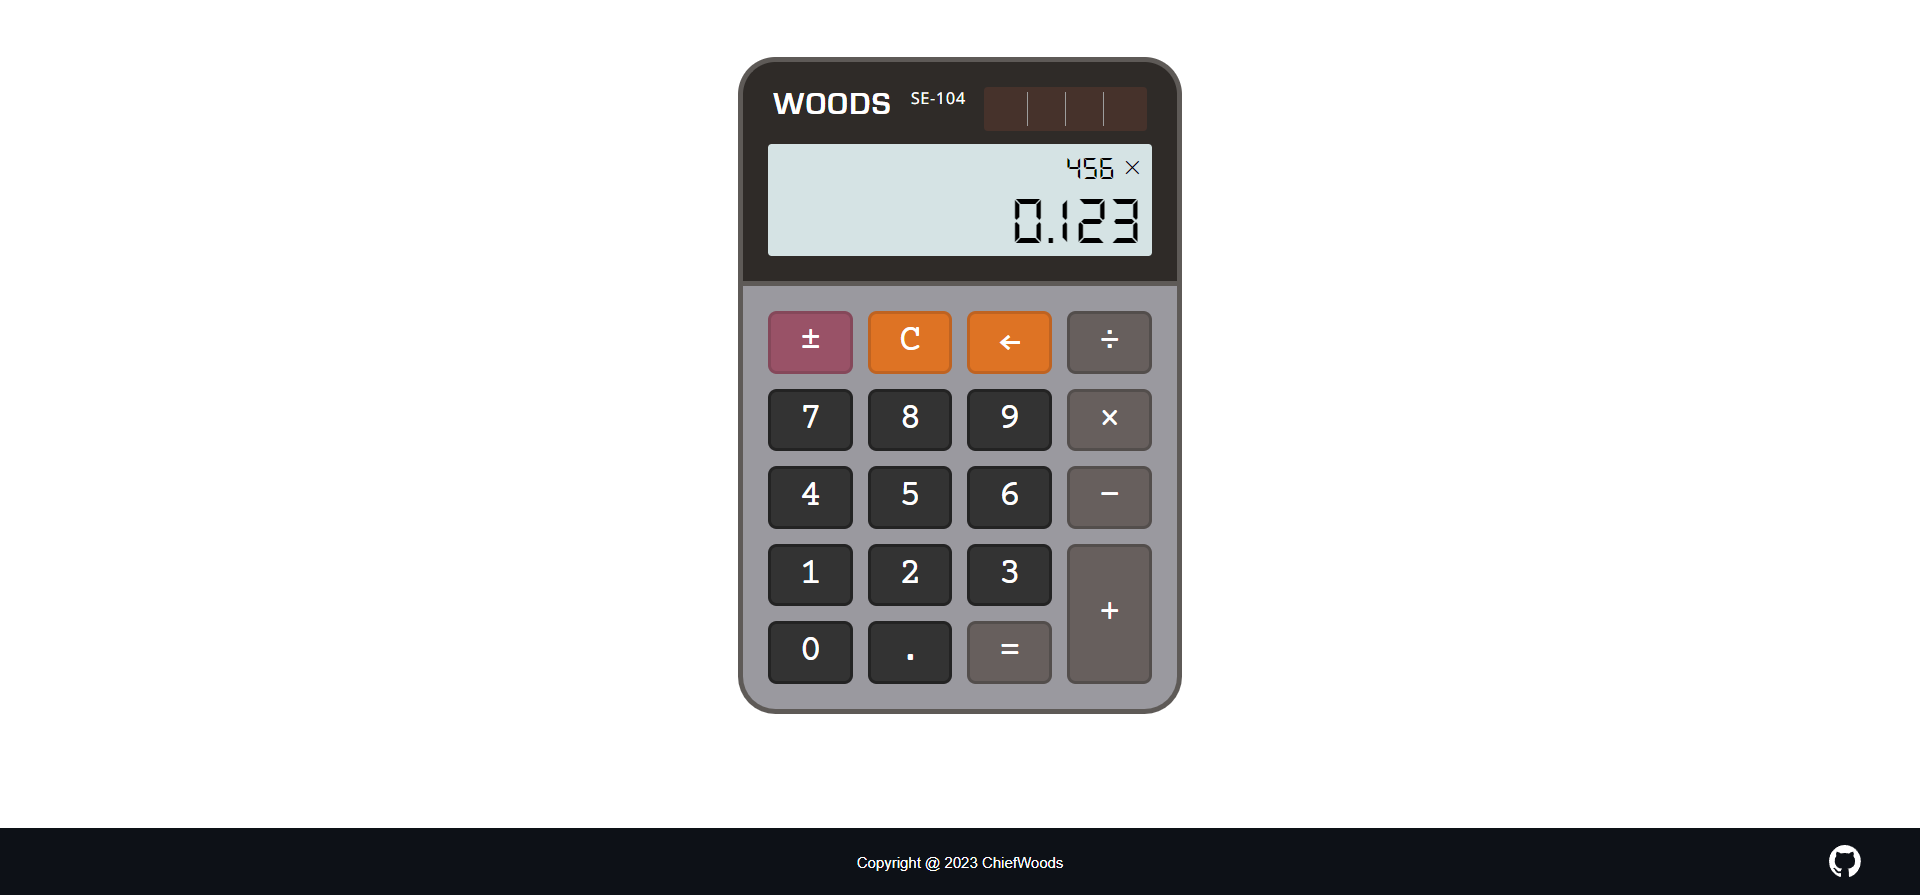
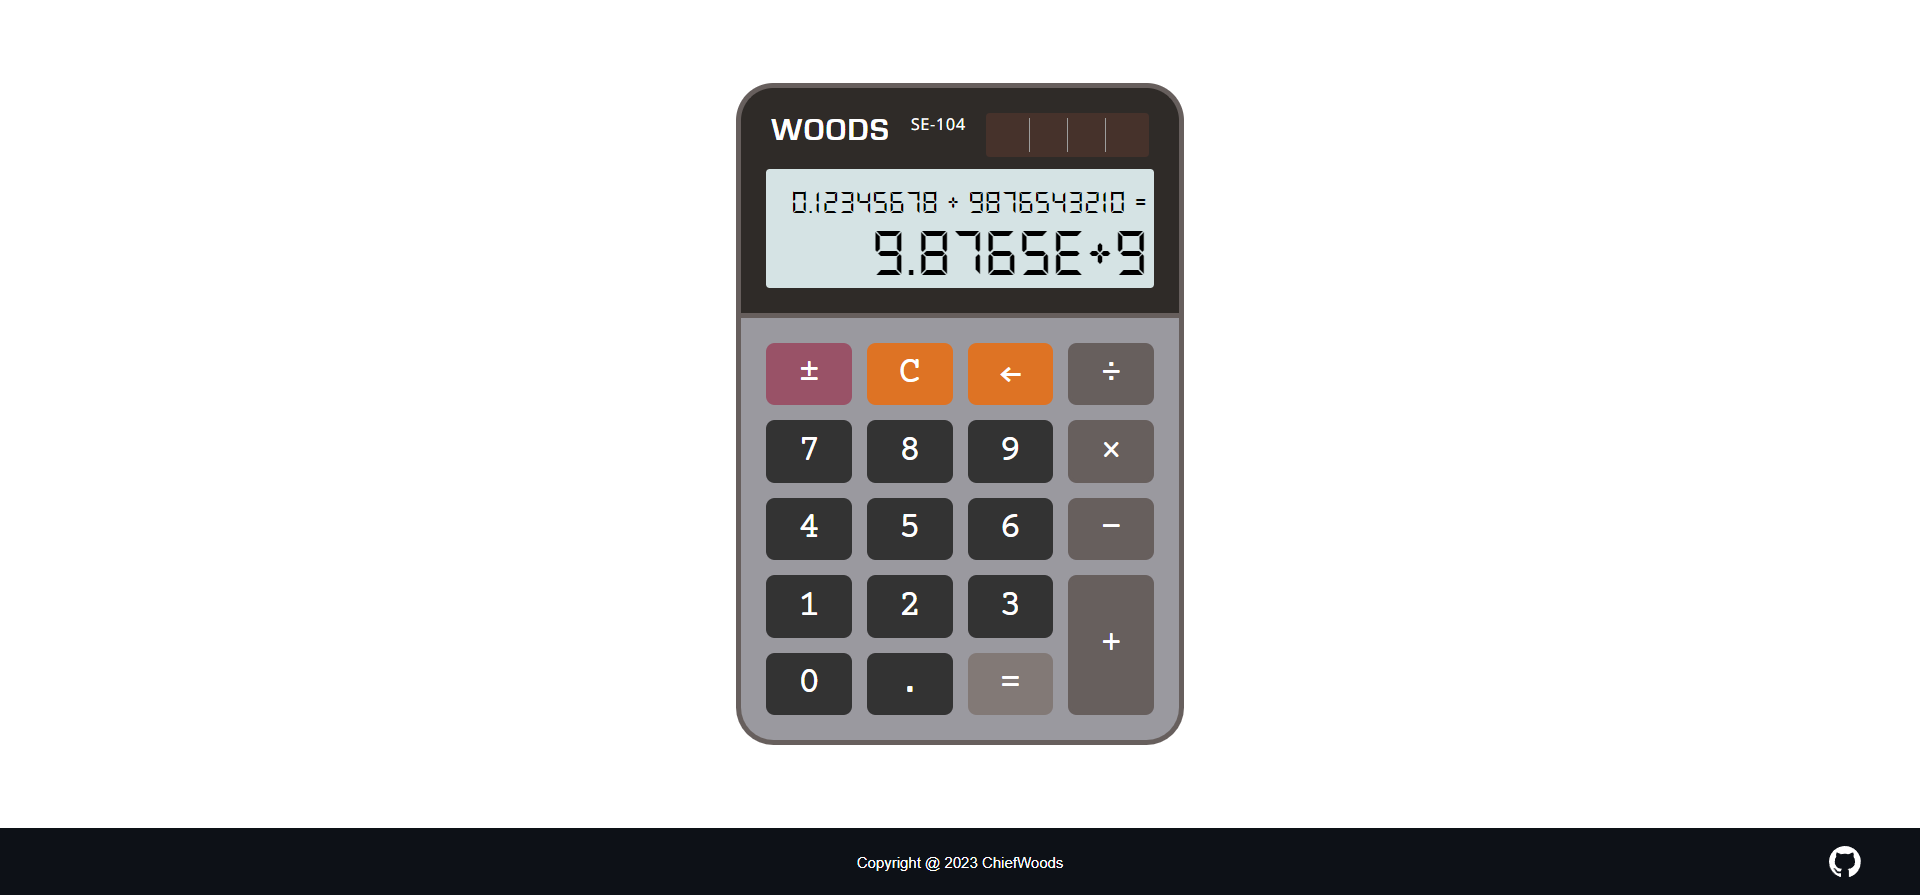
Update README.md

Changed region(s): [[0.375, 0.0603, 0.625, 0.8447]]

diff --git a/README.md b/README.md
@@ -2,7 +2,7 @@
 
 ![Landing Screenshot](images/landing_screenshot.png)
 
-Web calculator for [The Odin Project](https://www.theodinproject.com/) and [freeCodeCamp](https://www.freecodecamp.org/learn/).
+Web calculator for [The Odin Project](https://www.theodinproject.com/).
 
 [Live Website](https://chiefwoods.github.io/calculator/)  
 
@@ -14,6 +14,7 @@ Web calculator for [The Odin Project](https://www.theodinproject.com/) and [free
 - Toggle between positive and negative numbers
 - Backspace available
 - Chainable operations
+- Truncated results
 - Keyboard and numpad support
 
 ## Built With
